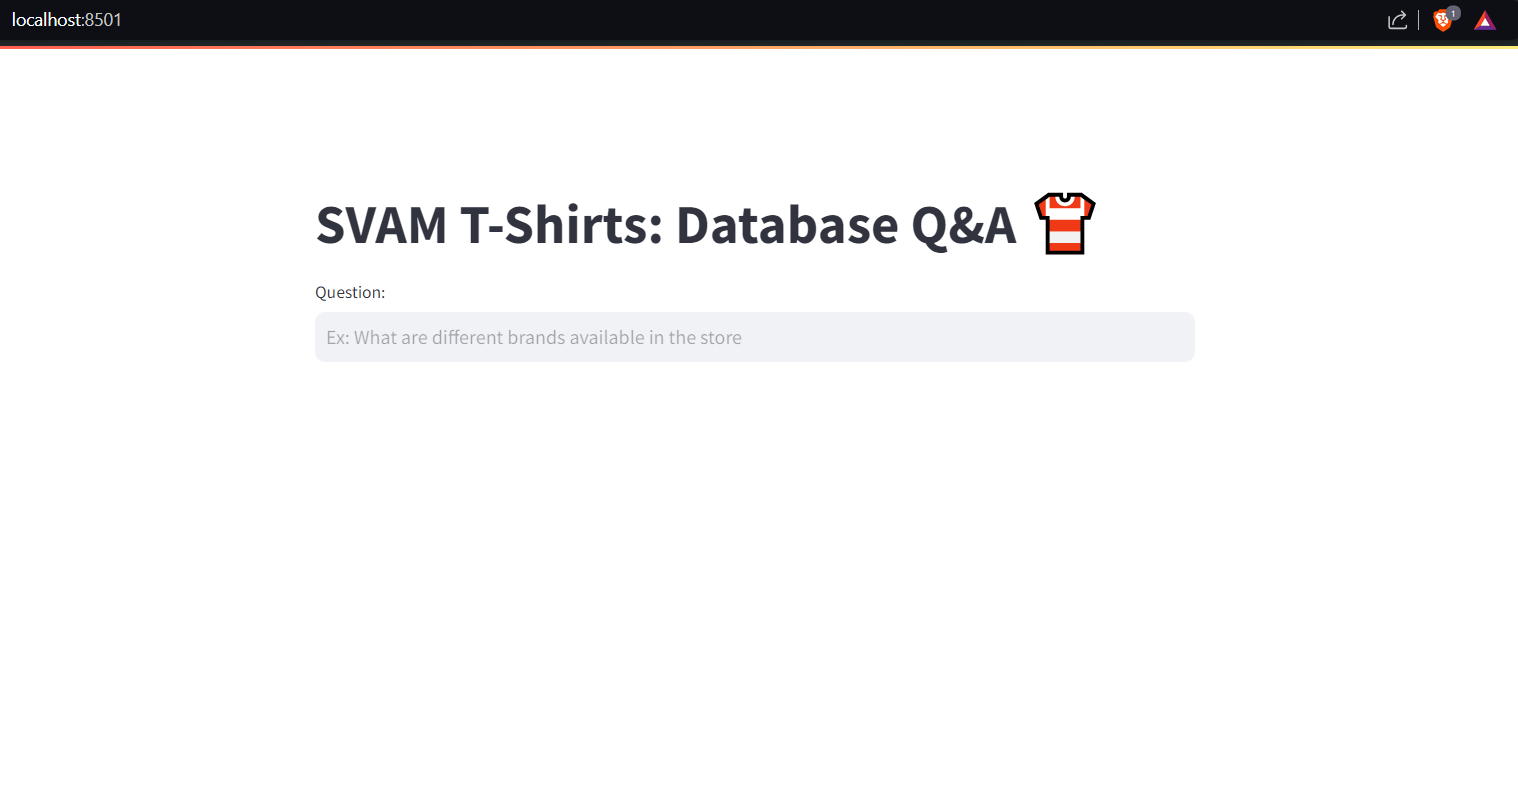
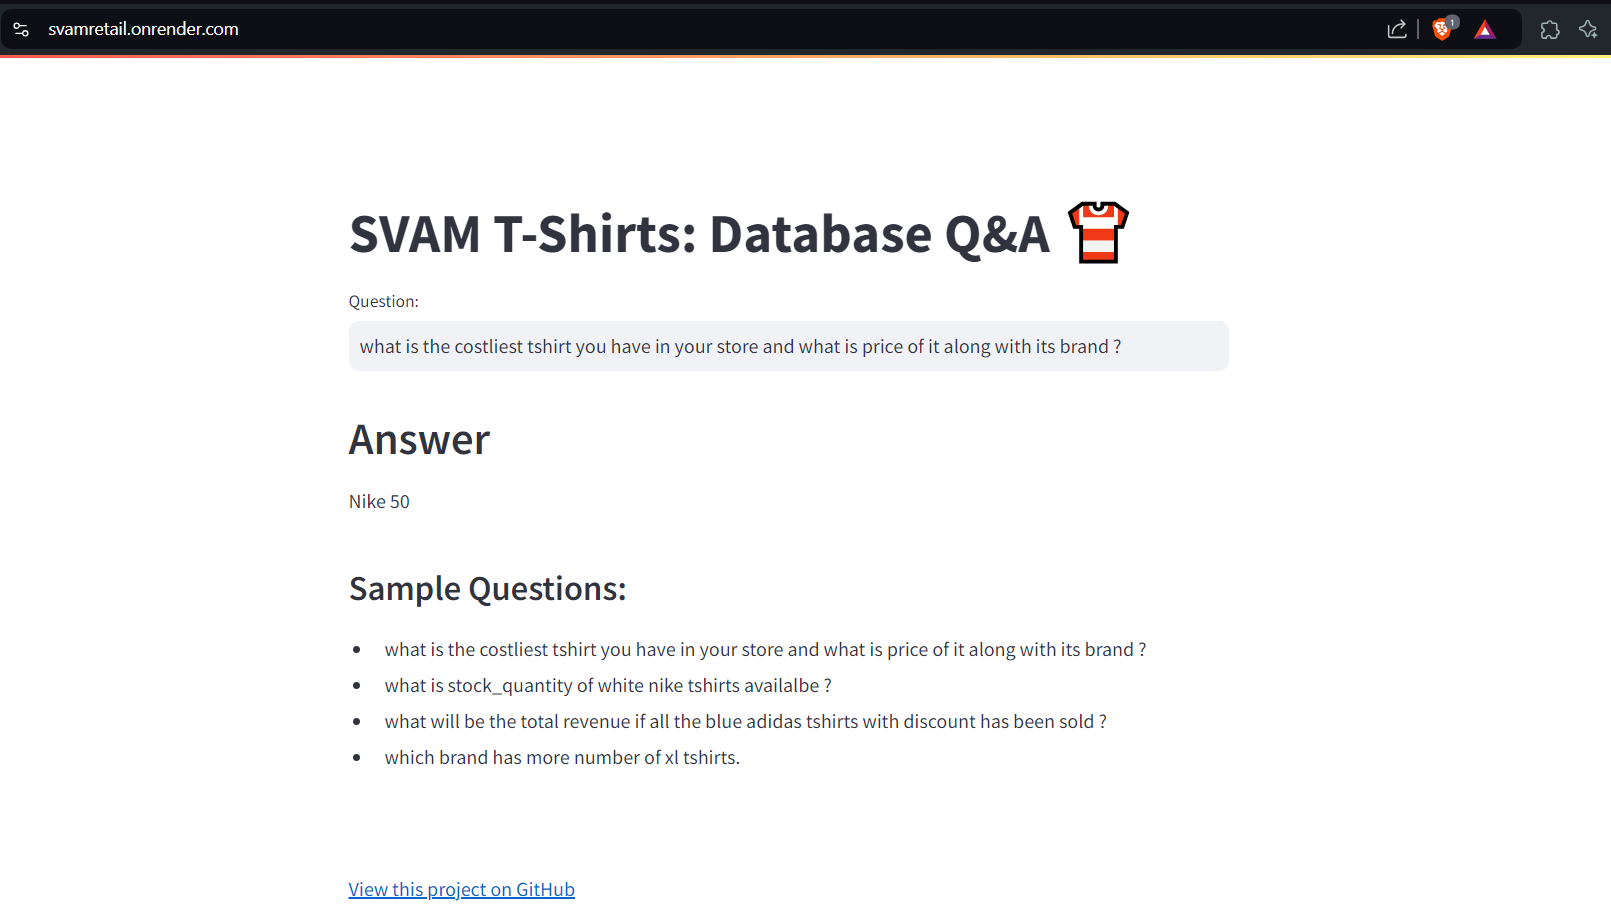
updated

diff --git a/main.py b/main.py
@@ -36,4 +36,3 @@ if __name__ == "__main__":
     import os
     port = int(os.environ.get("PORT", 8501))
     st._is_running_with_streamlit = True
-    st.cli.main()

diff --git a/README.md b/README.md
@@ -13,3 +13,9 @@ Used local database , the sql query file is given at `database/sql.sql`
 ###  Requirements
 To install all the dependencies run
 > pip install -r requirements.txt
+
+### Deployment 
+-> local sql database hosted on aiven web database <br>
+-> Application hosted on web through render <br>
+-> The site can be viewed on Link https://svamretail.onrender.com <br>
+(Note:The website may take a minute to load)
